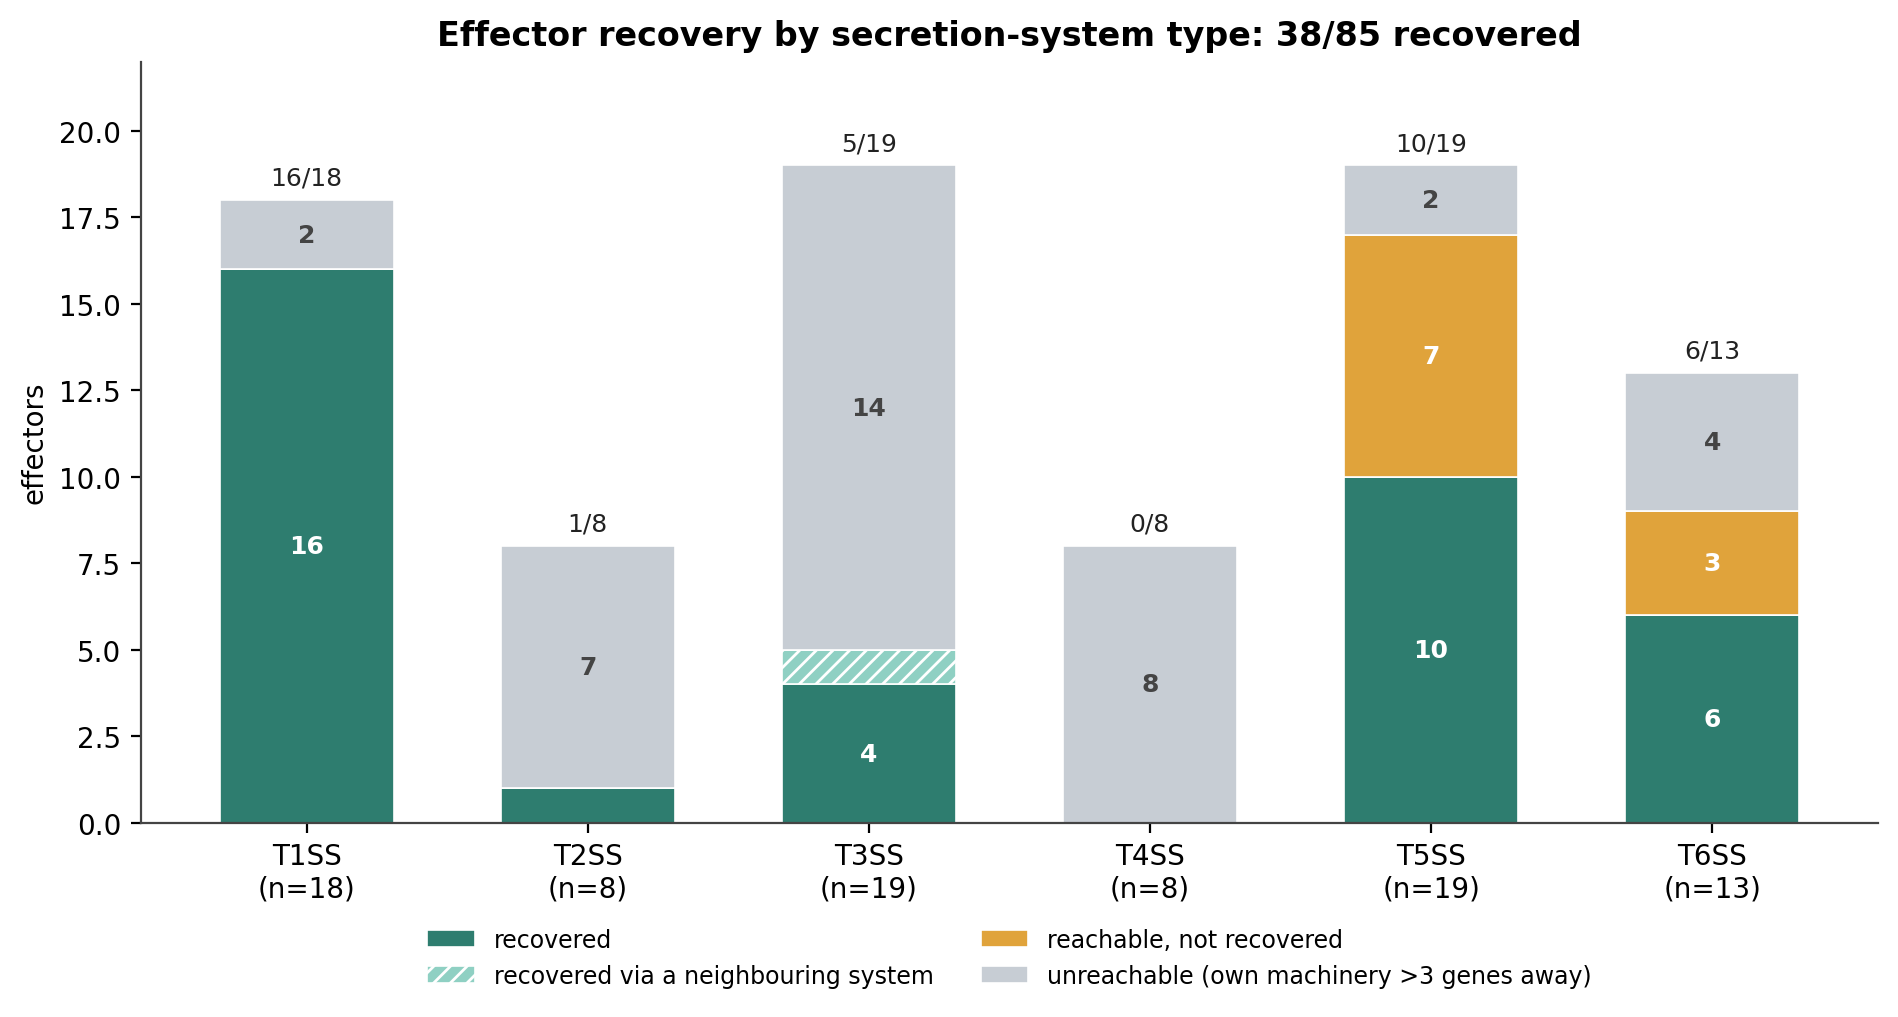
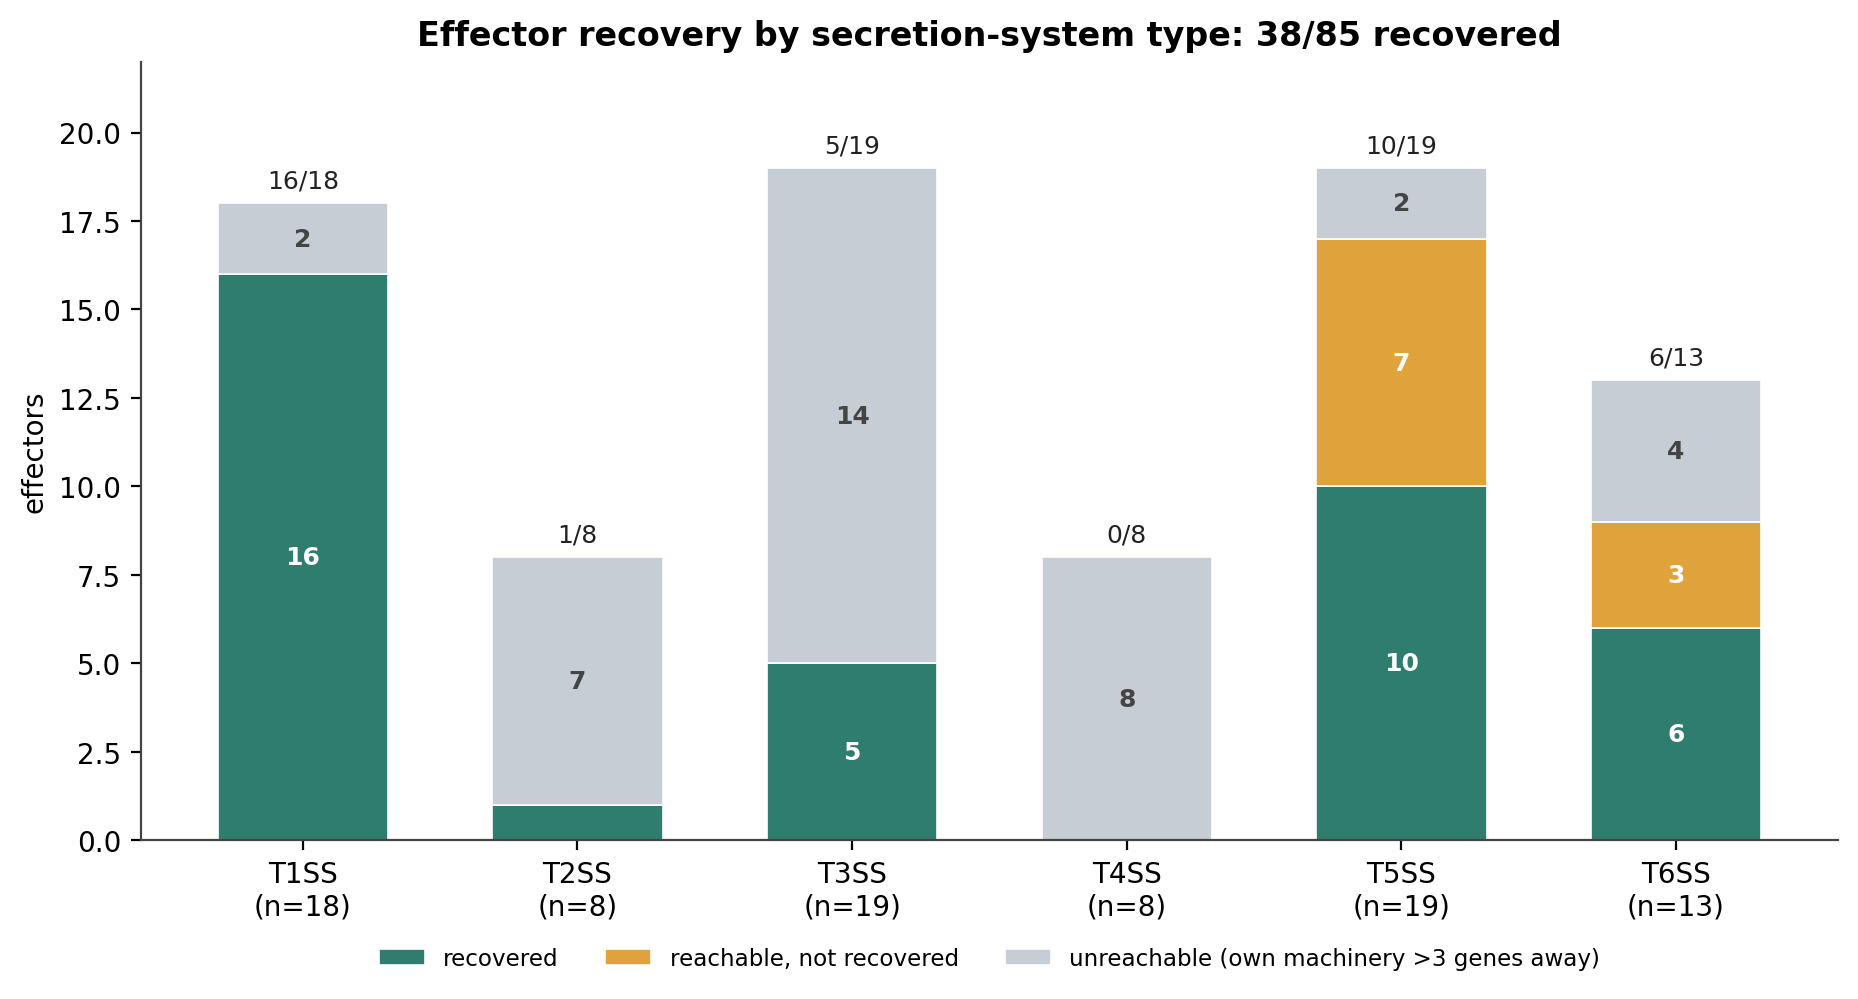
docs(benchmark): add ±1/3/5/7/9 reachability ceiling table; simplify figure
- New window-sensitivity table (±1/3/5/7/9) computed from the 85-row list's
  distance_to_machinery_genes; its ±3 column matches the recall table's reachable
  column (T2 13%, all 55%). Shows T1SS operonic jump 56->89% at ±1->±3, T2/T4
  flat near zero.
- Simplify recall_by_type.png back to a 3-part stack (recovered / reachable, not
  recovered / unreachable); drop the separate VirA segment. VirA stays footnoted
  in the recall table.

diff --git a/docs/benchmark/benchmarks.md b/docs/benchmark/benchmarks.md
@@ -25,10 +25,30 @@ Because the substrate call requires a secreted-looking protein within ±3 genes 
 its system's machinery, an effector encoded far from its own apparatus cannot be
 recovered, no matter how good the predictors are. How often that happens is
 biology: some systems are operonic (the effector sits beside its transporter),
-others scatter their effectors across the genome. The benchmarking list records
-this per effector in its `reachable_within_3` column, and the split is stark:
-nearly every T1SS effector falls inside the window, while only 1 of 8 T2SS and
-0 of 8 T4SS effectors do. Those are hard limits proximity cannot lift.
+others scatter their effectors across the genome.
+
+The ceiling is the fraction of each type's listed effectors whose own machinery
+sits within ±N genes, taken straight from the list's
+`distance_to_machinery_genes`:
+
+| SS type | in list | ±1 | ±3 | ±5 | ±7 | ±9 |
+|---|---:|---:|---:|---:|---:|---:|
+| T1SS | 18 | 56% | 89% | 89% | 89% | 89% |
+| T2SS | 8 | 13% | 13% | 13% | 13% | 13% |
+| T3SS | 19 | 11% | 21% | 32% | 32% | 37% |
+| T4SS | 8 | 0% | 0% | 0% | 0% | 0% |
+| T5SS † | 19 | 84% | 89% | 95% | 95% | 95% |
+| T6SS | 13 | 54% | 69% | 77% | 77% | 77% |
+| **All** | **85** | **42%** | **55%** | **60%** | **60%** | **61%** |
+
+† T5SS autotransporters self-secrete, so their "machinery" is the component itself
+(distance 0); the window barely applies.
+
+T1SS jumps from 56% to 89% between ±1 and ±3 (the effector is usually the immediate
+neighbour of its transporter), then flattens. T2SS and T4SS stay near zero at every
+window: their effectors are scattered genome-wide, and most T4SS machinery could not
+be placed within reach at all (CagA, the Legionella and Brucella effectors), the
+cross-replicon biology showing through. ssign uses ±3 by default.
 
 ## Actual recall
 
@@ -52,7 +72,7 @@ through a neighbouring T5aSS autotransporter's window (icsA, one gene away), not
 its own T3SS machinery (~24 genes away). It is the only cross-system case in the
 list.
 
-![Effector recovery by secretion-system type. Green is recovered; amber is reachable but not recovered; grey is unreachable (the effector's own machinery is more than three genes away); the hatched T3SS sliver is VirA, recovered via a neighbouring system.](recall_by_type.png)
+![Effector recovery by secretion-system type. Green is recovered; amber is reachable but not recovered; grey is unreachable (the effector's own machinery is more than three genes away).](recall_by_type.png)
 
 An effector counts as recovered if its CDS span overlaps an emitted secreted
 protein. Because Bakta renames every locus on re-annotation, effectors are bridged
